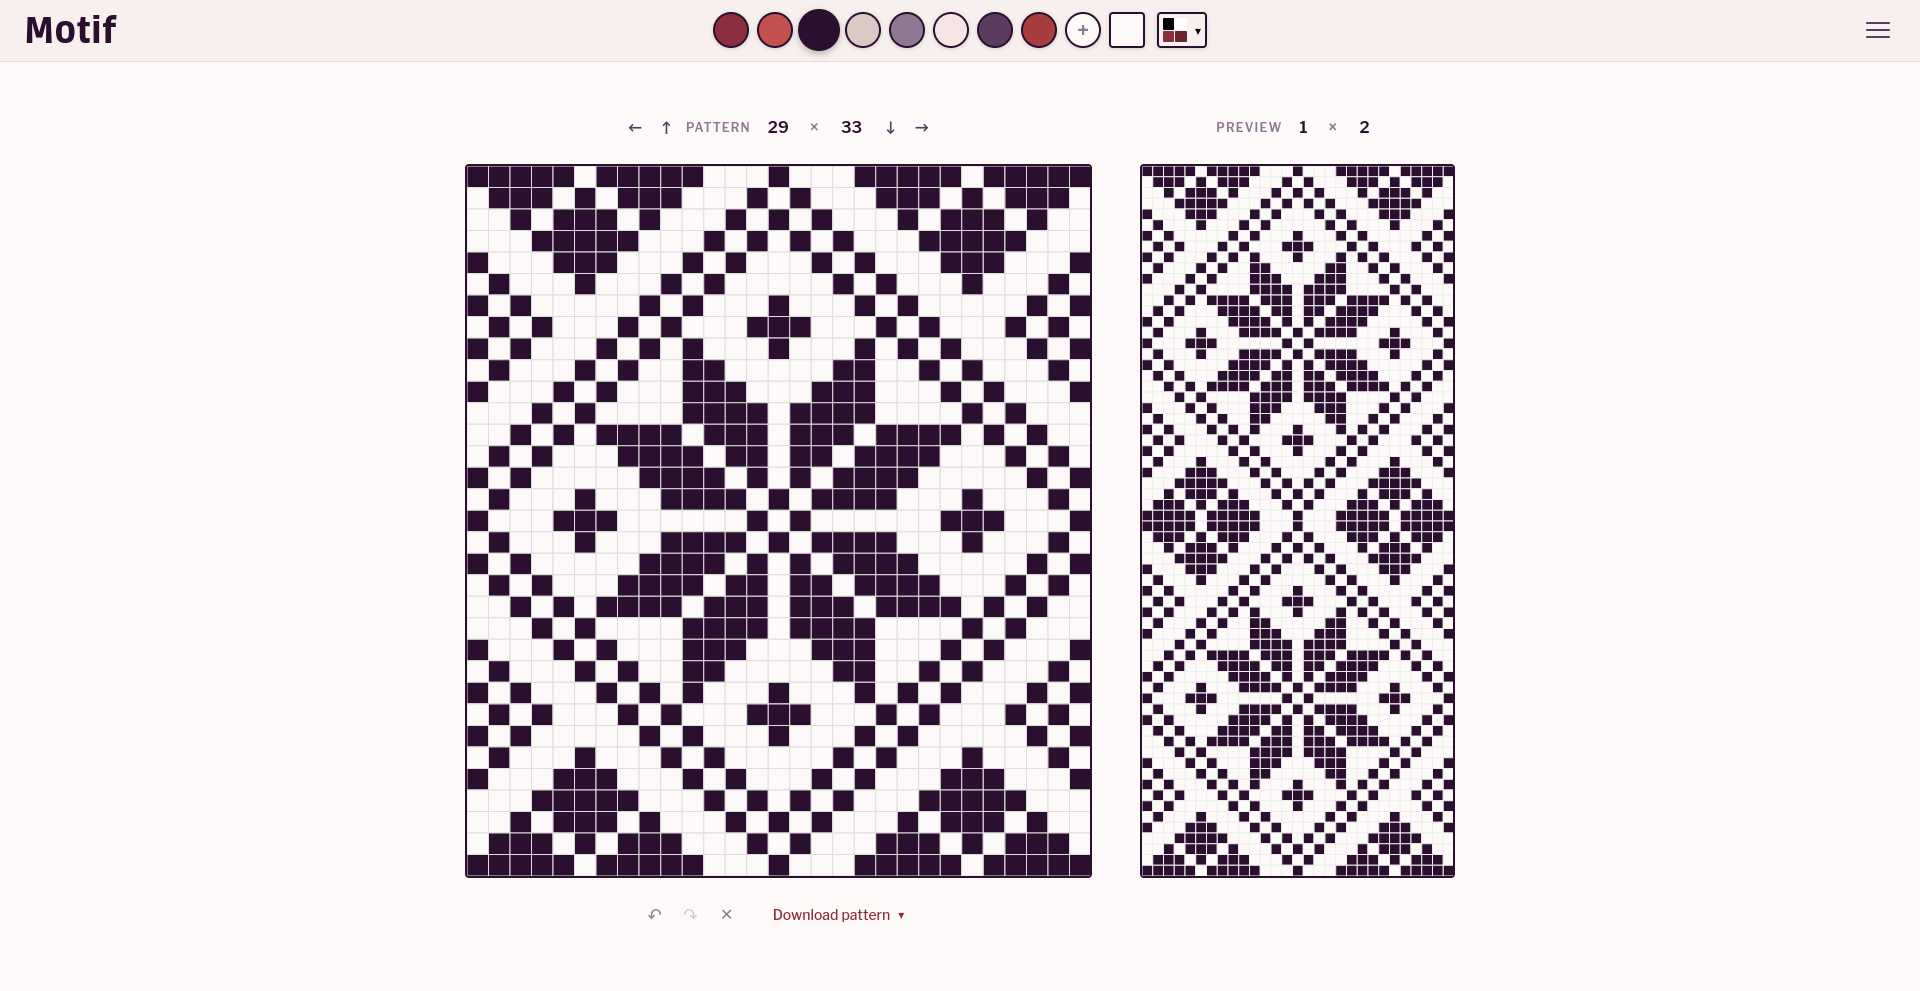
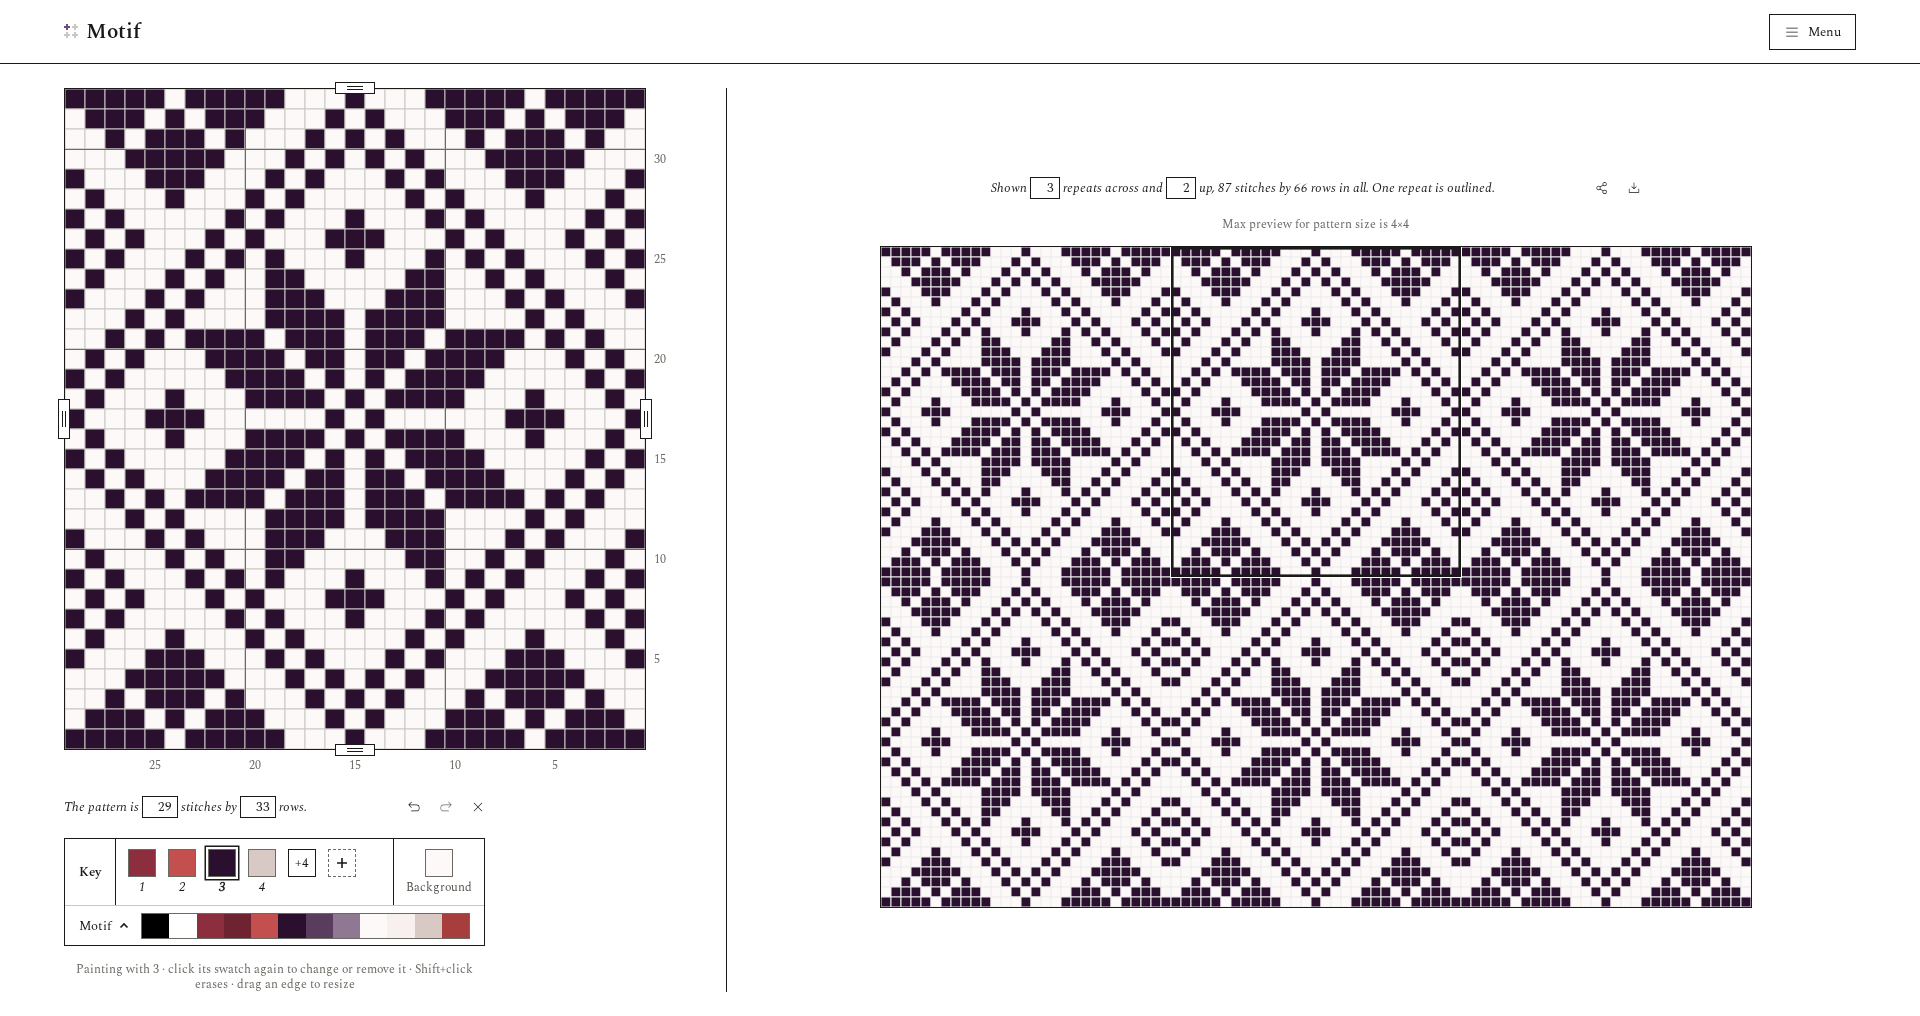
docs: update README screenshots for the redesign

diff --git a/README.md b/README.md
@@ -21,7 +21,7 @@ See the [Help page](https://motif.works/help.html) and [About page](https://moti
 
 ### Screenshots
 
-![A large pattern is repeated two times vertically](.github/media/screenshot1.png)
+![A large pattern is repeated three times across and twice up](.github/media/screenshot1.png)
 
 ![A border pattern is repeated three times horizontally](.github/media/screenshot2.png)
 
